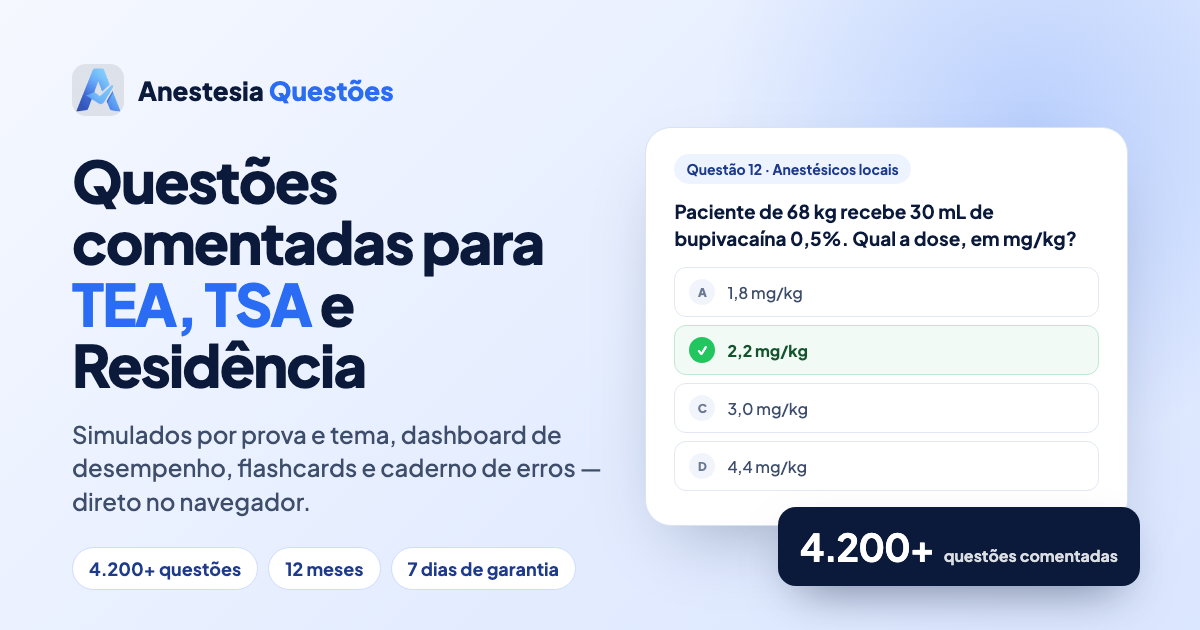
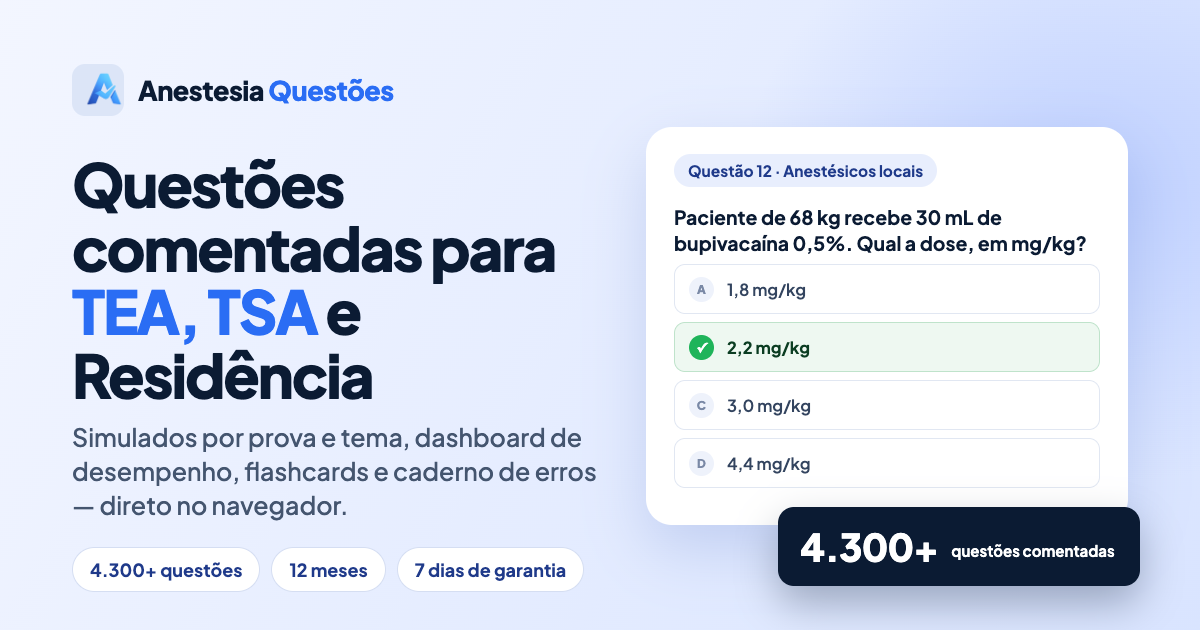
chore: atualiza contagem de questões para 4.300+ (landing e og-image)

diff --git a/index.html b/index.html
@@ -20,7 +20,7 @@
 <meta property="og:image" content="https://anestesiaquestoes.com.br/img/og-image.png" />
 <meta property="og:image:width" content="1200" />
 <meta property="og:image:height" content="630" />
-<meta property="og:image:alt" content="Anestesia Questões — 4.200+ questões comentadas para TEA, TSA e Residência" />
+<meta property="og:image:alt" content="Anestesia Questões — 4.300+ questões comentadas para TEA, TSA e Residência" />
 <meta property="og:locale" content="pt_BR" />
 
 <!-- Twitter Card -->
@@ -80,7 +80,7 @@
       "mainEntity": [
         { "@type": "Question", "name": "Quanto tempo dura o acesso?", "acceptedAnswer": { "@type": "Answer", "text": "São 12 meses corridos a partir da data da assinatura. Você pode entrar e estudar quantas vezes quiser, sem limite diário de questões." } },
         { "@type": "Question", "name": "A garantia de 7 dias funciona mesmo?", "acceptedAnswer": { "@type": "Answer", "text": "Sim. Se em até 7 dias você achar que a plataforma não é para você, peça o reembolso pelo WhatsApp ou direto na Eduzz. Devolvemos 100% do valor, sem perguntas." } },
-        { "@type": "Question", "name": "O que está incluído no plano?", "acceptedAnswer": { "@type": "Answer", "text": "É um plano único com tudo liberado: mais de 4.200 questões comentadas cobrindo ME1, ME2, ME3, TEA e TSA, simulados personalizados, dashboard de desempenho, flashcards com revisão espaçada, plano de estudo diário, questão do dia, caderno de erros e suporte por WhatsApp — por 12 meses, no computador, celular e app iOS." } },
+        { "@type": "Question", "name": "O que está incluído no plano?", "acceptedAnswer": { "@type": "Answer", "text": "É um plano único com tudo liberado: mais de 4.300 questões comentadas cobrindo ME1, ME2, ME3, TEA e TSA, simulados personalizados, dashboard de desempenho, flashcards com revisão espaçada, plano de estudo diário, questão do dia, caderno de erros e suporte por WhatsApp — por 12 meses, no computador, celular e app iOS." } },
         { "@type": "Question", "name": "Consigo estudar pelo celular?", "acceptedAnswer": { "@type": "Answer", "text": "Sim. Além da plataforma web, que funciona no navegador do celular, tablet e computador, temos também o app nativo disponível na App Store para iPhone. Você pode começar um simulado no computador e continuar pelo app — seu histórico e desempenho ficam sincronizados." } },
         { "@type": "Question", "name": "As questões são de provas anteriores ou autorais?", "acceptedAnswer": { "@type": "Answer", "text": "Nosso banco combina questões originais de provas anteriores de TEA, TSA e residência com questões inéditas e comentadas, cobrindo todos os temas relevantes da especialidade." } },
         { "@type": "Question", "name": "Como funciona o pagamento?", "acceptedAnswer": { "@type": "Answer", "text": "O pagamento é processado pela Eduzz, uma das maiores plataformas de produtos digitais do Brasil. Você pode pagar à vista no Pix ou parcelar em até 12× no cartão de crédito." } },
@@ -822,7 +822,7 @@
           <svg width="18" height="18" viewBox="0 0 24 24" fill="none" stroke="currentColor" stroke-width="2"><path d="M4 6h16M4 12h16M4 18h10"/></svg>
         </div>
         <div>
-          <div class="num">4.200+</div>
+          <div class="num">4.300+</div>
           <div class="lbl">Questões comentadas</div>
         </div>
       </div>
@@ -835,7 +835,7 @@
   <div class="container">
     <div class="counters-row">
       <div class="counter-cell">
-        <div class="counter-num">4.200<span class="suffix">+</span></div>
+        <div class="counter-num">4.300<span class="suffix">+</span></div>
         <div class="counter-lbl">Questões comentadas</div>
       </div>
       <div class="counter-cell">
@@ -1144,7 +1144,7 @@
     </div>
 
     <div class="demo-cta reveal">
-      <a class="btn btn-primary btn-lg" href="#planos">Quero treinar com 4.200+ questões assim</a>
+      <a class="btn btn-primary btn-lg" href="#planos">Quero treinar com 4.300+ questões assim</a>
     </div>
   </div>
 </section>
@@ -1212,7 +1212,7 @@
           <div class="plan-col-features">
             <div class="feat-title">Tudo que está incluído</div>
             <ul>
-            <li><svg width="18" height="18" viewBox="0 0 24 24" fill="none" stroke="currentColor" stroke-width="2.5"><path d="M20 6 9 17l-5-5"/></svg><span><strong>+4.200 questões comentadas</strong> cobrindo ME1, ME2, ME3, TEA e TSA</span></li>
+            <li><svg width="18" height="18" viewBox="0 0 24 24" fill="none" stroke="currentColor" stroke-width="2.5"><path d="M20 6 9 17l-5-5"/></svg><span><strong>+4.300 questões comentadas</strong> cobrindo ME1, ME2, ME3, TEA e TSA</span></li>
             <li><svg width="18" height="18" viewBox="0 0 24 24" fill="none" stroke="currentColor" stroke-width="2.5"><path d="M20 6 9 17l-5-5"/></svg><span><strong>Simulados personalizados</strong> por prova, tema, ano e dificuldade</span></li>
             <li><svg width="18" height="18" viewBox="0 0 24 24" fill="none" stroke="currentColor" stroke-width="2.5"><path d="M20 6 9 17l-5-5"/></svg><span><strong>Dashboard de desempenho</strong> com taxa de acerto por tema e evolução</span></li>
             <li><svg width="18" height="18" viewBox="0 0 24 24" fill="none" stroke="currentColor" stroke-width="2.5"><path d="M20 6 9 17l-5-5"/></svg><span><strong>Flashcards com revisão espaçada</strong> para fixar o que mais cai</span></li>
@@ -1320,7 +1320,7 @@
       </div>
       <div class="faq-item reveal">
         <button class="faq-q">O que está incluído no plano? <svg class="chevron" width="20" height="20" viewBox="0 0 24 24" fill="none" stroke="currentColor" stroke-width="2.5"><path d="M6 9l6 6 6-6"/></svg></button>
-        <div class="faq-a">É um plano único com tudo liberado: mais de 4.200 questões comentadas cobrindo ME1, ME2, ME3, TEA e TSA, simulados personalizados, dashboard de desempenho, flashcards com revisão espaçada, plano de estudo diário, questão do dia, caderno de erros e suporte por WhatsApp — por 12 meses, no computador, celular e app iOS.</div>
+        <div class="faq-a">É um plano único com tudo liberado: mais de 4.300 questões comentadas cobrindo ME1, ME2, ME3, TEA e TSA, simulados personalizados, dashboard de desempenho, flashcards com revisão espaçada, plano de estudo diário, questão do dia, caderno de erros e suporte por WhatsApp — por 12 meses, no computador, celular e app iOS.</div>
       </div>
       <div class="faq-item reveal">
         <button class="faq-q">Consigo estudar pelo celular? <svg class="chevron" width="20" height="20" viewBox="0 0 24 24" fill="none" stroke="currentColor" stroke-width="2.5"><path d="M6 9l6 6 6-6"/></svg></button>
